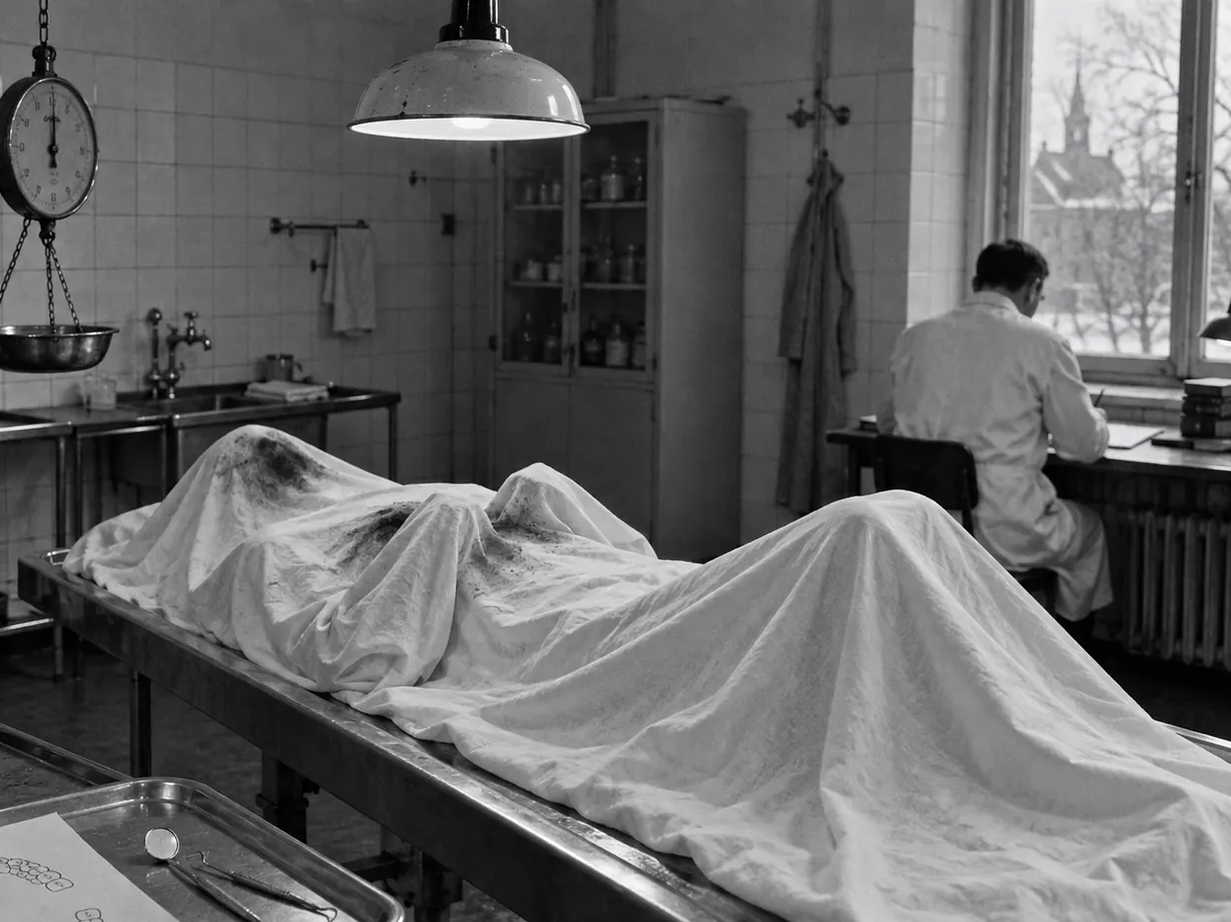
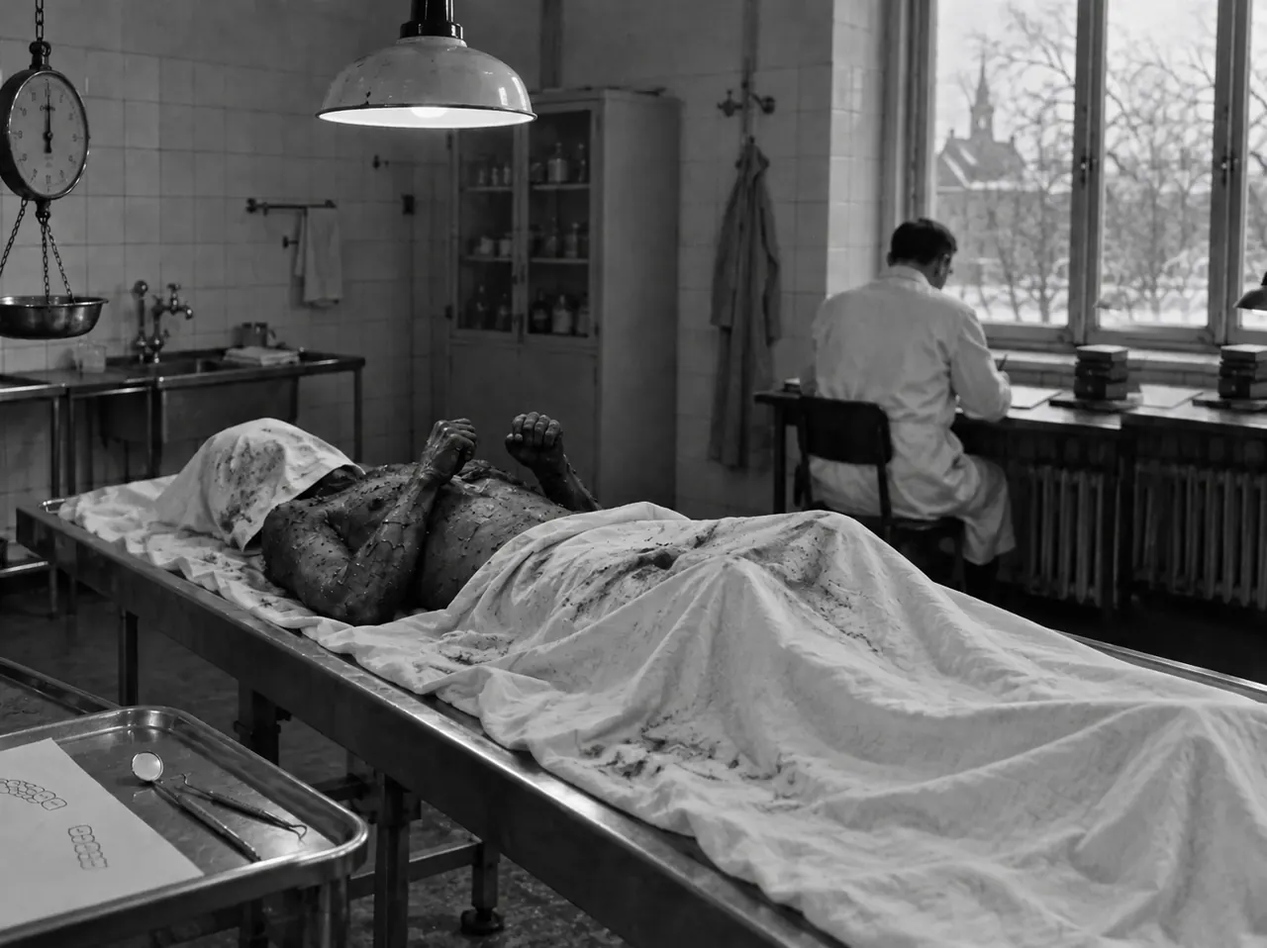
CASE 06's two body photos no longer hide the body when 잔혹 표현 is on. At the scene the tarp is folded back to the hips, and on the autopsy table the sheet is down to the waist: the burned upper body, forearms drawn up with clenched fists, face turned away or under a cloth. Captions match. With it off,
An image can now have a <key>_mild version that is used when 잔혹 표현 is off. The authoring guide explains this and goreRows.

diff --git a/img/manifest.js b/img/manifest.js
@@ -102,7 +102,8 @@ window.MG.images = {
   "c05/sketch": "img/c05/sketch.webp?v=5f76bfcb",
   "c05/truck": "img/c05/truck.webp?v=23f71f86",
   "c05/typed": "img/c05/typed.webp?v=605538ad",
-  "c06/autopsy_sheet": "img/c06/autopsy_sheet.webp?v=b2e94a47",
+  "c06/autopsy_sheet": "img/c06/autopsy_sheet.webp?v=a1b84372",
+  "c06/autopsy_sheet_mild": "img/c06/autopsy_sheet_mild.webp?v=b2e94a47",
   "c06/bags_table": "img/c06/bags_table.webp?v=8b54ca4b",
   "c06/cover": "img/c06/cover.webp?v=a744ce1c",
   "c06/cover_bg": "img/c06/cover_bg.webp?v=1d46603e",
@@ -111,7 +112,8 @@ window.MG.images = {
   "c06/harbor": "img/c06/harbor.webp?v=81ac0ac7",
   "c06/hytte": "img/c06/hytte.webp?v=d40d9a91",
   "c06/regcard": "img/c06/regcard.webp?v=7243ecc5",
-  "c06/scene_hollow": "img/c06/scene_hollow.webp?v=6c50b808",
+  "c06/scene_hollow": "img/c06/scene_hollow.webp?v=fb95a402",
+  "c06/scene_hollow_mild": "img/c06/scene_hollow_mild.webp?v=6c50b808",
   "c06/ship": "img/c06/ship.webp?v=a000a31a",
   "c06/station": "img/c06/station.webp?v=30135a93",
   "c06/stern": "img/c06/stern.webp?v=bbebb08a",
@@ -311,4 +313,4 @@ window.MG.images = {
   "_global/paper": "img/_global/paper.webp?v=da0f1de2",
   "_global/warn": "img/_global/warn.webp?v=1bc88cad"
 };
-window.MG.imageSize = {"c00/award":[1280,854],"c00/booth":[1280,960],"c00/bridge":[1280,960],"c00/cake":[1280,854],"c00/cat":[1280,960],"c00/cover":[1280,960],"c00/cover_bg":[640,480],"c00/cover_s":[260,196],"c00/cup":[1280,854],"c00/desk":[1280,960],"c00/doorbag":[1280,960],"c00/sketch":[1280,854],"c01/b_register":[1280,854],"c01/cover":[1280,960],"c01/cover_bg":[640,480],"c01/cover_s":[260,196],"c01/l_letter":[1280,960],"c01/l_postcard":[1280,854],"c01/l_slip":[1280,854],"c01/map":[1280,1170],"c01/patrollog":[1280,960],"c01/q_lamp":[1280,854],"c01/q_thread":[1280,1072],"c01/roseletter":[1280,962],"c01/s_candle":[1280,854],"c01/s_court":[1280,854],"c01/s_fundbox":[1280,854],"c01/s_patrol":[1280,854],"c01/s_sailor":[1280,854],"c01/s_tanners":[1280,854],"c02/attic":[1280,854],"c02/autopsy_table":[1280,960],"c02/barn_floor":[1280,960],"c02/calendar":[1280,1170],"c02/cover":[1280,854],"c02/cover_bg":[640,428],"c02/cover_s":[260,174],"c02/farm":[1280,854],"c02/hausbuch":[1280,854],"c02/hut":[1280,854],"c02/kasten":[1280,1170],"c02/kitchen":[1280,854],"c02/lock":[1280,1072],"c02/mailbox":[1280,854],"c02/plan":[1280,854],"c02/sk_kitchen":[1280,854],"c02/sk_stall":[1280,854],"c02/sledge":[1280,406],"c02/stall":[1280,854],"c02/suitcase":[1280,960],"c03/b_cafe":[1280,854],"c03/b_sewing":[1280,854],"c03/cover":[1280,1066],"c03/cover_bg":[640,534],"c03/cover_s":[260,216],"c03/map":[1222,1288],"c03/n_boheol":[1280,1072],"c03/n_jodk":[1280,854],"c03/n_singer":[1280,1072],"c03/p_radio":[1280,1024],"c03/p_safe":[1280,1170],"c03/p_shop":[1280,854],"c03/p_well":[1280,854],"c04/bike":[1280,854],"c04/bikephoto":[1280,800],"c04/boxes":[1280,960],"c04/coat":[1280,962],"c04/cover":[1280,854],"c04/cover_bg":[640,428],"c04/cover_s":[260,174],"c04/flare":[1280,960],"c04/kurotaki":[1280,854],"c04/l3_back":[1280,960],"c04/letter":[1280,854],"c04/map":[1280,854],"c04/matchbox":[1280,960],"c04/montage":[1030,1182],"c04/scene":[1280,720],"c04/siteboard":[1280,960],"c04/wind":[1280,960],"c05/cedar":[1280,720],"c05/cedar_car":[1280,960],"c05/cipherimg":[1280,960],"c05/cover":[1280,960],"c05/cover_bg":[640,480],"c05/cover_s":[260,196],"c05/depot":[1280,720],"c05/env_four":[1280,854],"c05/env_ref":[1280,854],"c05/env_sheriff":[1280,720],"c05/env_star":[1280,854],"c05/env_typed":[1280,854],"c05/letter1":[1280,854],"c05/lighthouse":[1280,720],"c05/masonhill":[1280,720],"c05/mh_car":[1280,960],"c05/payphone":[1086,1448],"c05/sketch":[1086,1448],"c05/truck":[1280,720],"c05/typed":[1280,960],"c06/autopsy_sheet":[1244,932],"c06/bags_table":[1280,854],"c06/cover":[1280,854],"c06/cover_bg":[640,428],"c06/cover_s":[260,174],"c06/fuel":[1280,854],"c06/harbor":[1280,854],"c06/hytte":[1280,854],"c06/regcard":[1280,960],"c06/scene_hollow":[1280,960],"c06/ship":[1280,854],"c06/station":[1280,854],"c06/stern":[1280,854],"c06/suitcases":[1280,960],"c06/thermos":[1280,854],"c06/touristmap":[1280,960],"c06/valley":[1280,960],"c07/cover":[1280,854],"c07/cover_bg":[640,428],"c07/cover_s":[260,174],"c07/handbag":[1280,960],"c07/house":[1280,960],"c07/ledger_page":[1280,960],"c07/news_car":[1280,854],"c07/photo_car":[1280,854],"c07/photo_seat":[1280,854],"c07/scene_map":[1280,854],"c07/seokcar":[1280,854],"c07/shop":[1280,854],"c07/songwol_gate":[1280,854],"c07/switchboard":[1280,960],"c07/tv":[1254,1254],"c08/booth":[1280,854],"c08/church":[1086,1448],"c08/cover":[1280,854],"c08/cover_bg":[640,428],"c08/cover_s":[260,174],"c08/flyer":[1280,854],"c08/keys":[1280,960],"c08/map":[1280,854],"c08/montage":[1086,1448],"c08/montage_print":[1086,1448],"c08/news_site":[1280,960],"c08/note_paper":[1280,854],"c08/rail":[1280,854],"c08/ransom_bag":[1280,854],"c08/sg_call":[1200,576],"c08/sg_han":[1200,576],"c08/sg_jang":[1200,576],"c08/sg_tak":[1200,576],"c08/sg_yeom":[1200,576],"c08/shop_ledger":[1280,960],"c08/solmaru":[1280,960],"c08/warehouse":[1280,960],"c09/busstop":[1280,854],"c09/cctv":[1280,854],"c09/courier_room":[1280,854],"c09/cover":[1280,960],"c09/cover_bg":[640,480],"c09/cover_s":[260,196],"c09/door":[1280,960],"c09/frames":[1280,960],"c09/haeun_photo":[1280,854],"c09/house204":[1280,960],"c09/house217":[1280,960],"c09/house219":[1280,854],"c09/house226":[1280,854],"c09/house230":[1280,960],"c09/map":[1280,854],"c09/mt_photo":[1280,854],"c09/ph217":[1280,960],"c09/ph219":[1280,960],"c09/pyogu":[1280,960],"c09/roof":[1280,854],"c09/sora_photo":[1280,960],"c10/cam_a":[1280,854],"c10/cam_b":[1280,854],"c10/cam_pier":[1280,960],"c10/cam_store":[1280,960],"c10/cam_taxi":[1280,854],"c10/cap":[1280,960],"c10/cover":[1280,854],"c10/cover_bg":[640,428],"c10/cover_s":[260,174],"c10/crates":[1280,960],"c10/hoesik":[1280,960],"c10/pier_day":[1280,960],"c11/autopsy_room":[1280,854],"c11/bus":[1280,854],"c11/butcher_floor":[1280,854],"c11/butcher_lumi":[1280,854],"c11/cover":[1280,960],"c11/cover_bg":[640,480],"c11/cover_s":[260,196],"c11/cut_a":[1280,854],"c11/cut_b":[1280,854],"c11/cut_c":[1280,854],"c11/cut_d":[1280,854],"c11/cut_ev":[1280,854],"c11/gauge":[1280,854],"c11/items_table":[1280,854],"c11/knot_ev":[1280,960],"c11/ledger_page":[1280,854],"c11/news_bridge":[1280,854],"c11/news_divers":[1280,960],"c11/news_reeds":[1280,854],"c11/news_shop":[1280,854],"c11/news_workshop":[1280,854],"c11/nfs_nacre":[1280,960],"c11/occ_reeds":[1280,854],"c11/photo_sack":[1280,960],"c11/ph_lumi":[1280,854],"c11/ph_match":[1280,854],"c11/ph_print":[1280,854],"c11/workshop_floor":[1280,854],"c12/bagsample":[1280,854],"c12/boiler":[1280,854],"c12/butcher":[1280,854],"c12/cleancart":[1280,1024],"c12/cover":[1280,854],"c12/cover_bg":[640,428],"c12/cover_s":[260,174],"c12/dengon":[1280,854],"c12/jiage":[1280,960],"c12/knot_bag":[1280,960],"c12/luminol":[1280,854],"c12/n_park":[1280,854],"c12/pinkphone":[1024,1536],"c12/room":[1280,1072],"c12/saw_cast":[1280,960],"c12/scene_bin":[1280,854],"c12/sento":[1024,1536],"c12/sk_east":[1280,854],"c12/sk_lum":[1280,854],"c12/sk_sento":[1280,854],"c12/store":[1280,854],"c12/trap":[1280,854],"c12/videocard":[1280,854],"c12/wp":[1280,854],"c13/alley_day":[1280,960],"c13/bread":[1280,960],"c13/cctv_drop":[1280,720],"c13/cctv_pick":[1280,720],"c13/counter":[1280,854],"c13/cover":[1280,960],"c13/cover_bg":[640,480],"c13/cover_s":[260,196],"c13/door":[1280,960],"c13/drop":[1280,960],"c13/kick":[1280,960],"c13/locker":[1280,960],"c13/room":[1280,854],"c13/store":[1280,960],"c13/tablet":[1280,960],"c14/atm":[1280,960],"c14/bankbook":[1280,960],"c14/calendar":[1280,960],"c14/cover":[1280,960],"c14/cover_bg":[640,480],"c14/cover_s":[260,196],"c14/fakedoc":[1280,960],"c14/lock":[1280,960],"c14/market":[1280,960],"c14/oksun":[1280,960],"c14/park":[1280,720],"c14/scooter":[1280,960],"c14/sk_door":[1280,854],"c14/sk_locker":[1280,854],"c14/stakeout":[1280,720],"c15/carlot":[1280,854],"c15/carwash":[1280,720],"c15/cctv_lane":[1280,960],"c15/cover":[1280,960],"c15/cover_bg":[640,480],"c15/cover_s":[260,196],"c15/elev_cam":[1280,960],"c15/futsal":[1280,960],"c15/helmet_cam":[1280,720],"c15/libnote":[1280,960],"c15/note_photo":[1280,960],"c15/plate_photo":[1280,960],"c15/shoes":[1280,960],"c15/tracker_photo":[1280,960],"c15/watch_found":[1280,960],"_desk/ashtray":[600,594],"_desk/cassette":[600,400],"_desk/clips":[600,616],"_desk/energy":[600,600],"_desk/evidencebag":[600,900],"_desk/flipphone":[600,970],"_desk/glasses":[600,208],"_desk/inkpen":[600,588],"_desk/lanyard":[600,600],"_desk/magnifier":[600,602],"_desk/matchbox":[600,552],"_desk/mug":[600,488],"_desk/pager":[600,560],"_desk/pencil":[600,70],"_desk/pocketwatch":[600,588],"_desk/radio":[600,900],"_desk/smartphone":[600,1096],"_desk/stamp":[600,548],"_desk/takeaway":[600,706],"_desk/teacup":[600,602],"_global/desk":[1024,1024],"_global/hero":[1672,942],"_global/paper":[1024,1024],"_global/warn":[600,200]};
+window.MG.imageSize = {"c00/award":[1280,854],"c00/booth":[1280,960],"c00/bridge":[1280,960],"c00/cake":[1280,854],"c00/cat":[1280,960],"c00/cover":[1280,960],"c00/cover_bg":[640,480],"c00/cover_s":[260,196],"c00/cup":[1280,854],"c00/desk":[1280,960],"c00/doorbag":[1280,960],"c00/sketch":[1280,854],"c01/b_register":[1280,854],"c01/cover":[1280,960],"c01/cover_bg":[640,480],"c01/cover_s":[260,196],"c01/l_letter":[1280,960],"c01/l_postcard":[1280,854],"c01/l_slip":[1280,854],"c01/map":[1280,1170],"c01/patrollog":[1280,960],"c01/q_lamp":[1280,854],"c01/q_thread":[1280,1072],"c01/roseletter":[1280,962],"c01/s_candle":[1280,854],"c01/s_court":[1280,854],"c01/s_fundbox":[1280,854],"c01/s_patrol":[1280,854],"c01/s_sailor":[1280,854],"c01/s_tanners":[1280,854],"c02/attic":[1280,854],"c02/autopsy_table":[1280,960],"c02/barn_floor":[1280,960],"c02/calendar":[1280,1170],"c02/cover":[1280,854],"c02/cover_bg":[640,428],"c02/cover_s":[260,174],"c02/farm":[1280,854],"c02/hausbuch":[1280,854],"c02/hut":[1280,854],"c02/kasten":[1280,1170],"c02/kitchen":[1280,854],"c02/lock":[1280,1072],"c02/mailbox":[1280,854],"c02/plan":[1280,854],"c02/sk_kitchen":[1280,854],"c02/sk_stall":[1280,854],"c02/sledge":[1280,406],"c02/stall":[1280,854],"c02/suitcase":[1280,960],"c03/b_cafe":[1280,854],"c03/b_sewing":[1280,854],"c03/cover":[1280,1066],"c03/cover_bg":[640,534],"c03/cover_s":[260,216],"c03/map":[1222,1288],"c03/n_boheol":[1280,1072],"c03/n_jodk":[1280,854],"c03/n_singer":[1280,1072],"c03/p_radio":[1280,1024],"c03/p_safe":[1280,1170],"c03/p_shop":[1280,854],"c03/p_well":[1280,854],"c04/bike":[1280,854],"c04/bikephoto":[1280,800],"c04/boxes":[1280,960],"c04/coat":[1280,962],"c04/cover":[1280,854],"c04/cover_bg":[640,428],"c04/cover_s":[260,174],"c04/flare":[1280,960],"c04/kurotaki":[1280,854],"c04/l3_back":[1280,960],"c04/letter":[1280,854],"c04/map":[1280,854],"c04/matchbox":[1280,960],"c04/montage":[1030,1182],"c04/scene":[1280,720],"c04/siteboard":[1280,960],"c04/wind":[1280,960],"c05/cedar":[1280,720],"c05/cedar_car":[1280,960],"c05/cipherimg":[1280,960],"c05/cover":[1280,960],"c05/cover_bg":[640,480],"c05/cover_s":[260,196],"c05/depot":[1280,720],"c05/env_four":[1280,854],"c05/env_ref":[1280,854],"c05/env_sheriff":[1280,720],"c05/env_star":[1280,854],"c05/env_typed":[1280,854],"c05/letter1":[1280,854],"c05/lighthouse":[1280,720],"c05/masonhill":[1280,720],"c05/mh_car":[1280,960],"c05/payphone":[1086,1448],"c05/sketch":[1086,1448],"c05/truck":[1280,720],"c05/typed":[1280,960],"c06/autopsy_sheet":[1280,958],"c06/autopsy_sheet_mild":[1244,932],"c06/bags_table":[1280,854],"c06/cover":[1280,854],"c06/cover_bg":[640,428],"c06/cover_s":[260,174],"c06/fuel":[1280,854],"c06/harbor":[1280,854],"c06/hytte":[1280,854],"c06/regcard":[1280,960],"c06/scene_hollow":[1280,960],"c06/scene_hollow_mild":[1280,960],"c06/ship":[1280,854],"c06/station":[1280,854],"c06/stern":[1280,854],"c06/suitcases":[1280,960],"c06/thermos":[1280,854],"c06/touristmap":[1280,960],"c06/valley":[1280,960],"c07/cover":[1280,854],"c07/cover_bg":[640,428],"c07/cover_s":[260,174],"c07/handbag":[1280,960],"c07/house":[1280,960],"c07/ledger_page":[1280,960],"c07/news_car":[1280,854],"c07/photo_car":[1280,854],"c07/photo_seat":[1280,854],"c07/scene_map":[1280,854],"c07/seokcar":[1280,854],"c07/shop":[1280,854],"c07/songwol_gate":[1280,854],"c07/switchboard":[1280,960],"c07/tv":[1254,1254],"c08/booth":[1280,854],"c08/church":[1086,1448],"c08/cover":[1280,854],"c08/cover_bg":[640,428],"c08/cover_s":[260,174],"c08/flyer":[1280,854],"c08/keys":[1280,960],"c08/map":[1280,854],"c08/montage":[1086,1448],"c08/montage_print":[1086,1448],"c08/news_site":[1280,960],"c08/note_paper":[1280,854],"c08/rail":[1280,854],"c08/ransom_bag":[1280,854],"c08/sg_call":[1200,576],"c08/sg_han":[1200,576],"c08/sg_jang":[1200,576],"c08/sg_tak":[1200,576],"c08/sg_yeom":[1200,576],"c08/shop_ledger":[1280,960],"c08/solmaru":[1280,960],"c08/warehouse":[1280,960],"c09/busstop":[1280,854],"c09/cctv":[1280,854],"c09/courier_room":[1280,854],"c09/cover":[1280,960],"c09/cover_bg":[640,480],"c09/cover_s":[260,196],"c09/door":[1280,960],"c09/frames":[1280,960],"c09/haeun_photo":[1280,854],"c09/house204":[1280,960],"c09/house217":[1280,960],"c09/house219":[1280,854],"c09/house226":[1280,854],"c09/house230":[1280,960],"c09/map":[1280,854],"c09/mt_photo":[1280,854],"c09/ph217":[1280,960],"c09/ph219":[1280,960],"c09/pyogu":[1280,960],"c09/roof":[1280,854],"c09/sora_photo":[1280,960],"c10/cam_a":[1280,854],"c10/cam_b":[1280,854],"c10/cam_pier":[1280,960],"c10/cam_store":[1280,960],"c10/cam_taxi":[1280,854],"c10/cap":[1280,960],"c10/cover":[1280,854],"c10/cover_bg":[640,428],"c10/cover_s":[260,174],"c10/crates":[1280,960],"c10/hoesik":[1280,960],"c10/pier_day":[1280,960],"c11/autopsy_room":[1280,854],"c11/bus":[1280,854],"c11/butcher_floor":[1280,854],"c11/butcher_lumi":[1280,854],"c11/cover":[1280,960],"c11/cover_bg":[640,480],"c11/cover_s":[260,196],"c11/cut_a":[1280,854],"c11/cut_b":[1280,854],"c11/cut_c":[1280,854],"c11/cut_d":[1280,854],"c11/cut_ev":[1280,854],"c11/gauge":[1280,854],"c11/items_table":[1280,854],"c11/knot_ev":[1280,960],"c11/ledger_page":[1280,854],"c11/news_bridge":[1280,854],"c11/news_divers":[1280,960],"c11/news_reeds":[1280,854],"c11/news_shop":[1280,854],"c11/news_workshop":[1280,854],"c11/nfs_nacre":[1280,960],"c11/occ_reeds":[1280,854],"c11/photo_sack":[1280,960],"c11/ph_lumi":[1280,854],"c11/ph_match":[1280,854],"c11/ph_print":[1280,854],"c11/workshop_floor":[1280,854],"c12/bagsample":[1280,854],"c12/boiler":[1280,854],"c12/butcher":[1280,854],"c12/cleancart":[1280,1024],"c12/cover":[1280,854],"c12/cover_bg":[640,428],"c12/cover_s":[260,174],"c12/dengon":[1280,854],"c12/jiage":[1280,960],"c12/knot_bag":[1280,960],"c12/luminol":[1280,854],"c12/n_park":[1280,854],"c12/pinkphone":[1024,1536],"c12/room":[1280,1072],"c12/saw_cast":[1280,960],"c12/scene_bin":[1280,854],"c12/sento":[1024,1536],"c12/sk_east":[1280,854],"c12/sk_lum":[1280,854],"c12/sk_sento":[1280,854],"c12/store":[1280,854],"c12/trap":[1280,854],"c12/videocard":[1280,854],"c12/wp":[1280,854],"c13/alley_day":[1280,960],"c13/bread":[1280,960],"c13/cctv_drop":[1280,720],"c13/cctv_pick":[1280,720],"c13/counter":[1280,854],"c13/cover":[1280,960],"c13/cover_bg":[640,480],"c13/cover_s":[260,196],"c13/door":[1280,960],"c13/drop":[1280,960],"c13/kick":[1280,960],"c13/locker":[1280,960],"c13/room":[1280,854],"c13/store":[1280,960],"c13/tablet":[1280,960],"c14/atm":[1280,960],"c14/bankbook":[1280,960],"c14/calendar":[1280,960],"c14/cover":[1280,960],"c14/cover_bg":[640,480],"c14/cover_s":[260,196],"c14/fakedoc":[1280,960],"c14/lock":[1280,960],"c14/market":[1280,960],"c14/oksun":[1280,960],"c14/park":[1280,720],"c14/scooter":[1280,960],"c14/sk_door":[1280,854],"c14/sk_locker":[1280,854],"c14/stakeout":[1280,720],"c15/carlot":[1280,854],"c15/carwash":[1280,720],"c15/cctv_lane":[1280,960],"c15/cover":[1280,960],"c15/cover_bg":[640,480],"c15/cover_s":[260,196],"c15/elev_cam":[1280,960],"c15/futsal":[1280,960],"c15/helmet_cam":[1280,720],"c15/libnote":[1280,960],"c15/note_photo":[1280,960],"c15/plate_photo":[1280,960],"c15/shoes":[1280,960],"c15/tracker_photo":[1280,960],"c15/watch_found":[1280,960],"_desk/ashtray":[600,594],"_desk/cassette":[600,400],"_desk/clips":[600,616],"_desk/energy":[600,600],"_desk/evidencebag":[600,900],"_desk/flipphone":[600,970],"_desk/glasses":[600,208],"_desk/inkpen":[600,588],"_desk/lanyard":[600,600],"_desk/magnifier":[600,602],"_desk/matchbox":[600,552],"_desk/mug":[600,488],"_desk/pager":[600,560],"_desk/pencil":[600,70],"_desk/pocketwatch":[600,588],"_desk/radio":[600,900],"_desk/smartphone":[600,1096],"_desk/stamp":[600,548],"_desk/takeaway":[600,706],"_desk/teacup":[600,602],"_global/desk":[1024,1024],"_global/hero":[1672,942],"_global/paper":[1024,1024],"_global/warn":[600,200]};

diff --git a/cases/c06-norway-1970.js b/cases/c06-norway-1970.js
@@ -204,7 +204,7 @@
     docs: {
       /* ── 헬레순 경찰 수사철 ── */
       d_report: { src: 'politi', blood: true, title: '변사체 발견 보고', kicker: 'HELLESUND POLITIKAMMER · RAPPORT', meta: '1969년 10월 19일(일) 밤 · 강력반 당직', body: [
-        { img: 'scene_hollow', cap: '현장 사진 3호 (10월 19일 16:40 · 감식반). 방수포를 덮은 채 찍었다. 번호표는 현장 유류품 목록의 번호.' },
+        { img: 'scene_hollow', cap: '현장 사진 3호 (10월 19일 16:40 · 감식반). 방수포를 덮은 채 찍었다. 번호표는 현장 유류품 목록의 번호.', gore: '현장 사진 3호 (10월 19일 16:40 · 감식반). 방수포를 허리께까지 걷고 찍었다. 두 팔은 열에 오그라든 채 주먹을 쥐고 가슴 앞에 들려 있다. 번호표는 현장 유류품 목록의 번호.' },
         '10월 19일 일요일 오후 2시 20분, 대학생 [[카리 바트네]](22)와 [[잉리드 몰란]](22)이 [[크비트달 산장|k_hytte]]에서 내려오다 등산로에서 60미터쯤 떨어진 바위 비탈 아래에서 여성 한 명이 숨져 있는 것을 발견, 3시 5분 들머리 농가 전화로 신고함.',
         '여성은 30대로 보이며, 몸 앞쪽과 곁에 둔 소지품 일부가 불에 탄 상태였음. 둘레의 히스 덤불에 불이 옮은 자국이 있으나 크게 번지지는 않았음.',
         { p: '시신은 바위 비탈 밑 오목한 자리에 반듯이 누운 채였음. 두 팔은 팔꿈치에서 굽어 가슴 앞으로 들려 있고, 두 손은 주먹을 쥔 모양. 무릎도 조금 굽음.', gore: '시신은 바위 비탈 밑 오목한 자리에 반듯이 누운 채였음. 두 팔은 팔꿈치에서 굽어 가슴 앞으로 들려 있고, 두 손은 주먹을 쥔 모양. 주먹 쥔 손가락은 숯처럼 검게 오그라들어 서로 눌어붙어 있었음. 무릎도 조금 굽음. 들린 두 팔 안쪽에 밤새 빗물이 고였다가 그을음을 녹여, 검은 물줄기가 가슴을 타고 흘러내린 자국이 남아 있음.' },
@@ -218,7 +218,7 @@
         { stamp: 'Hellesund Politikammer' },
       ] },
       d_autopsy: { src: 'politi', blood: 'heavy', title: '부검 소견서', kicker: 'HELLESUND SYKEHUS · PATOLOGISK AVDELING', meta: '1969년 10월 21일 · 병리과장 Dr. 라우릿센 · 입회 할보르센 경감', body: [
-        { img: 'autopsy_sheet', cap: '시립병원 병리과 부검실. 팔은 열에 오그라든 그대로 굳어, 덮은 천이 가슴 위로 들려 있다.', gore: '시립병원 병리과 부검실. 팔은 열에 오그라든 그대로 굳어, 덮은 천이 가슴 위로 들려 있다. 천 밑에서 그을음과 누런 진물이 배어 나와 가슴과 얼굴 자리가 얼룩졌다.' },
+        { img: 'autopsy_sheet', cap: '시립병원 병리과 부검실. 팔은 열에 오그라든 그대로 굳어, 덮은 천이 가슴 위로 들려 있다.', gore: '시립병원 병리과 부검실. 천을 허리까지 내렸다. 팔은 열에 오그라든 그대로 굳어 가슴 앞에 들려 있고, 쥔 주먹은 펴지지 않는다. 얼굴에 덮은 작은 천에 그을음과 누런 진물이 배어 나왔다.' },
         '사인: 수면제 중독에 불길의 일산화탄소 중독이 겹침. 불이 붙었을 때 아직 숨을 쉬고 있었음.',
         { p: '혈액과 위 내용물에서 [[수면제]](바르비투르산계) 성분이 많이 나옴. 위에서 커피가 조금 나옴.', f: 'f_pills' },
         { p: '사망 추정: [[10월 18일]](토) 낮부터 저녁 사이.', f: 'f_tod' },
@@ -607,16 +607,16 @@
       thermos: { use: '현장 유류품 1호 — 히스 덤불 속 보온병 뚜껑 컵', ratio: '4:3',
         svg: '<svg viewBox="0 0 200 150"><rect width="200" height="150" fill="#6e5a4e"/><g fill="#8a5f6e"><circle cx="30" cy="40" r="18"/><circle cx="170" cy="30" r="22"/><circle cx="60" cy="130" r="24"/><circle cx="160" cy="125" r="20"/></g><path d="M78 70h44l-6 44H84z" fill="#b8b9b4"/><ellipse cx="100" cy="70" rx="22" ry="6" fill="#d9dad5"/><ellipse cx="100" cy="72" rx="16" ry="3" fill="#4a3526"/></svg>',
         prompt: 'Police close-up photograph of the screw-on cup lid of a 1960s vacuum flask lying in wet purple heather on a rocky Norwegian hillside, a dark coffee stain inside the cup, a blank evidence number card beside it. Overcast light, 35mm black-and-white film.' },
-      scene_hollow: { use: '현장 사진 3호 — 바위 비탈 밑 불탄 자리 (방수포로 덮은 시신)', ratio: '4:3', sensitive: true,
+      scene_hollow: { use: '현장 사진 3호 — 바위 비탈 밑 불탄 자리 (방수포를 허리까지 걷은 시신). 잔혹 표현을 끄면 끝까지 덮은 판(scene_hollow_mild)', ratio: '4:3', sensitive: true,
         svg: '<svg viewBox="0 0 200 150"><rect width="200" height="150" fill="#6f716b"/><path d="M0 0h200v70q-40 10-80 4T0 80z" fill="#55575a"/><path d="M92 76q-6-32 6-62q8 22 4 62z" fill="#1f1e1c" opacity=".7"/><ellipse cx="100" cy="106" rx="84" ry="32" fill="none" stroke="#5c4a36" stroke-width="7" opacity=".55"/><ellipse cx="100" cy="106" rx="72" ry="26" fill="#2a2724"/><path d="M58 110q4-18 20-16q6-16 20-12q16-10 30 4q16 4 18 24z" fill="#8c8e88"/><path d="M84 98q6-14 14-6M108 94q8-12 14-2" stroke="#6b6d68" stroke-width="3" fill="none"/><path d="M34 94l14 10M38 106l12-6" stroke="#111" stroke-width="1.5"/><ellipse cx="160" cy="106" rx="6" ry="4" fill="#3a3530"/><ellipse cx="170" cy="110" rx="5" ry="3.5" fill="#3a3530"/><g fill="#efece4"><rect x="40" y="110" width="9" height="6"/><rect x="152" y="116" width="9" height="6"/><rect x="118" y="70" width="9" height="6"/></g></svg>',
-        prompt: 'Black-and-white 1969 Norwegian police scene photograph on 35mm Tri-X, overcast afternoon after rain, wet rock: the foot of a steep grey boulder slope where a shallow hollow in the heather has burned. A ring about two metres across of heather burned down to black ash and stubble, singed brown tips beyond it, and on the rock face above a tongue of black soot rising to head height. In the middle of the ring a human form lies on its back under a grey canvas tarp, only its outline showing: the arms bent at the elbows and raised in front of the chest so the tarp tents up over them, the knees slightly bent. Around it, each with a small blank white numbered card: the black wire skeleton of a burnt folding umbrella by the right shoulder, two small opaque 1960s polyethylene bottles (squat, white and brown, like household cleaner flasks, not clear water bottles) melted into shapeless blackened lumps, lying on the ash about half a metre beyond the foot end of the tarp and clearly separate from it, a charred matchbox wedged in a rock crack above the head. The muddy rubber boots of a policeman at the frame edge, raindrops beading on the tarp, heavy grain.',
-        must: '지름 2m쯤 까맣게 탄 히스 고리 · 바위 벽을 사람 키만큼 타고 오른 그을음 · 방수포 아래로 가슴 앞에 들린 두 팔의 윤곽 · 번호표가 붙은 우산 뼈대(어깨 곁)·녹은 병 둘(발치)·성냥갑(머리 위 바위틈)',
-        avoid: '방수포는 끝까지 덮인 채로. 탄 피부·살·상처·얼굴은 보이지 않게.' },
-      autopsy_sheet: { use: '시립병원 병리과 부검실 — 흰 천 아래 오그라든 형체', ratio: '4:3', sensitive: true,
+        prompt: 'Black-and-white 1969 Norwegian police scene photograph on 35mm Tri-X, overcast afternoon after rain, wet rock: the foot of a steep grey boulder slope where a shallow hollow in the heather has burned. A ring about two metres across of heather burned down to black ash and stubble, singed brown tips beyond it, and on the rock face above a tongue of black soot rising to head height. In the middle of the ring a human form lies on its back, the grey canvas tarp folded back from the head end to about the hips: the exposed upper body burned black like charcoal, clothing burned to curled ash flakes, the surface cracked like burnt bark, both forearms raised stiffly in front of the chest with blackened clenched fists (the heat "boxer" pose), the head turned away toward the rock and crusted with ash so no face shows. Around it, each with a small blank white numbered card: the black wire skeleton of a burnt folding umbrella by the right shoulder, two small opaque 1960s polyethylene bottles (squat, white and brown, like household cleaner flasks, not clear water bottles) melted into shapeless blackened lumps, lying on the ash about half a metre beyond the foot end of the tarp and clearly separate from it, a charred matchbox wedged in a rock crack above the head. The muddy rubber boots of a policeman at the frame edge, raindrops beading on the tarp, heavy grain.',
+        must: '지름 2m쯤 까맣게 탄 히스 고리 · 바위 벽을 사람 키만큼 타고 오른 그을음 · 허리까지 걷은 방수포 · 까맣게 탄 윗몸과 가슴 앞에 들린 두 팔·쥔 주먹 (얼굴은 안 보임) · 번호표가 붙은 우산 뼈대(어깨 곁)·녹은 병 둘(발치)·성냥갑(머리 위 바위틈)',
+        avoid: '얼굴은 보이지 않게 (돌려 있거나 재에 덮이게). 알몸·성적인 것 없이. 흑백만.' },
+      autopsy_sheet: { use: '시립병원 병리과 부검실 — 천을 허리까지 내린 탄 시신. 잔혹 표현을 끄면 끝까지 덮은 판(autopsy_sheet_mild)', ratio: '4:3', sensitive: true,
         svg: '<svg viewBox="0 0 200 150"><rect width="200" height="150" fill="#6a6d6b"/><path d="M0 20H200M0 40H200M0 60H200M0 80H200M40 0V84M80 0V84M120 0V84M160 0V84" stroke="#7c7f7d"/><path d="M100 0v16" stroke="#222"/><path d="M86 16h28l-5 9h-18z" fill="#2b2b2a"/><rect x="24" y="92" width="152" height="9" fill="#9ea3a2"/><rect x="34" y="101" width="6" height="38" fill="#777"/><rect x="160" y="101" width="6" height="38" fill="#777"/><path d="M34 92q8-10 22-8l8-28q10-6 18 2l6 26q10-4 18-2l6-22q10-6 16 2l2 28q16-2 30 2z" fill="#e9ebe3"/><ellipse cx="60" cy="86" rx="10" ry="4" fill="#5a5854" opacity=".45"/><ellipse cx="88" cy="80" rx="12" ry="5" fill="#5a5854" opacity=".4"/><rect x="176" y="62" width="16" height="30" fill="#3b3a36"/></svg>',
-        prompt: 'Black-and-white 1969 photograph of a small Norwegian hospital pathology room: white tiled walls, a single enamel lamp hanging low over a steel autopsy table. On the table a body lies completely covered by a white sheet, and the shape under the sheet is wrong: the cloth is lifted over forearms bent at the elbows and raised in front of the chest with the hands clenched, and over knees slightly drawn up. Grey-black soot smudges have come through the cloth over the chest and where the face would be. On a side tray a blank dental chart form showing only printed tooth outlines, a dental mirror and probe; a hanging scale and a folded stack of clean towels (no specimen jars, no organs anywhere in the room); a pathologist in a white coat seen from behind writing at a desk by a tall window. Cold daylight, grain.',
-        must: '천이 가슴 앞으로 들린 두 팔과 조금 굽은 무릎 위로 솟아 있다 · 가슴과 얼굴 자리에 배어 나온 그을음 · 옆 쟁반의 치과 차트(치아 그림만)와 치경',
-        avoid: '천은 끝까지 덮인 채로. 탄 피부·살·상처·얼굴은 보이지 않게. 차트에 읽히는 글자 없이.' },
+        prompt: 'Black-and-white 1969 photograph of a small Norwegian hospital pathology room: white tiled walls, a single enamel lamp hanging low over a steel autopsy table. On the table a body lies with the white sheet drawn down to the waist: the upper body charred black and cracked, the forearms rigidly raised in front of the chest and bent at the elbows with blackened clenched fists. A small folded white cloth lies over the face and head, grey with soot seeping through, so no face shows. Soot and ash have come off onto the sheet around the body. On a side tray a blank dental chart form showing only printed tooth outlines, a dental mirror and probe; a hanging scale and a folded stack of clean towels (no specimen jars, no organs anywhere in the room); a pathologist in a white coat seen from behind writing at a desk by a tall window. Cold daylight, grain.',
+        must: '허리까지 내린 천 · 까맣게 탄 윗몸과 가슴 앞에 들린 두 팔·쥔 주먹 · 얼굴을 덮은 작은 천에 밴 그을음 · 옆 쟁반의 치과 차트(치아 그림만)와 치경',
+        avoid: '얼굴은 작은 천으로 덮어 보이지 않게. 알몸·성적인 것 없이. 차트에 읽히는 글자 없이.' },
       suitcases: { use: '역 보관소 가방 두 개의 내용물', ratio: '4:3',
         svg: '<svg viewBox="0 0 200 150"><rect width="200" height="150" fill="#b9b2a2"/><rect x="24" y="60" width="86" height="60" rx="4" fill="#6b4a2c"/><rect x="56" y="52" width="20" height="10" rx="3" fill="none" stroke="#3a2818" stroke-width="3"/><rect x="104" y="72" width="76" height="50" rx="4" fill="#3f4b52"/><rect x="132" y="64" width="18" height="10" rx="3" fill="none" stroke="#20282c" stroke-width="3"/><rect x="160" y="84" width="14" height="20" fill="#e8dfc6"/></svg>',
         prompt: 'Two 1960s suitcases opened on a police table with their contents laid out for documentation: three wigs of different hair colours, plain-glass spectacles, neatly folded clothes with the labels cut out, small binoculars, a compact camera and a slim notebook. Flat fluorescent light, faded 35mm colour film.' },

diff --git a/js/engine.js b/js/engine.js
@@ -244,9 +244,11 @@
   function art(key, cls, svgOnly) {
     const a = C.art[key];
     if (a == null) return '';
-    const file = svgOnly && !(a && a.raster) ? null : MG.images[`${C.id}/${key}`];
+    // 잔혹 표현을 끈 사람에게는 <키>_mild 그림(천을 덮은 판)이 있으면 그걸 보인다
+    const ik = ST && S.mild && a && a.sensitive && MG.images[`${C.id}/${key}_mild`] ? `${C.id}/${key}_mild` : `${C.id}/${key}`;
+    const file = svgOnly && !(a && a.raster) ? null : MG.images[ik];
     const alt = (a && a.alt) || (a && a.use) || '';
-    const sz = file && (MG.imageSize || {})[`${C.id}/${key}`]; // 그림이 오기 전에 제 비율만큼 자리를 잡아 둔다 (늦게 뜬 그림이 글·표시점을 밀어내지 않게)
+    const sz = file && (MG.imageSize || {})[ik]; // 그림이 오기 전에 제 비율만큼 자리를 잡아 둔다 (늦게 뜬 그림이 글·표시점을 밀어내지 않게)
     const img = file ? `<img class="${cls || 'art'}" src="${esc(file)}" alt="${esc(alt)}" loading="lazy" decoding="async"${sz ? ` style="aspect-ratio:auto ${+sz[0]}/${+sz[1]}"` : ''}>` : '';
     // 글자 없는 그림(지도·약도)에는 이름표를 게임이 얹는다: [글자, x%, y%(글자 밑줄), 'l'|'c'|'r']
     const labs = file && a && a.labels ? `<span class="art-labs" aria-hidden="true">${a.labels.map(([t, x, y, al]) => `<span class="art-lab${al === 'c' ? ' c' : al === 'r' ? ' r' : ''}" style="left:${+x}%;top:${+y}%">${esc(t)}</span>`).join('')}</span>` : '';

diff --git a/docs/CASE_AUTHORING.md b/docs/CASE_AUTHORING.md
@@ -170,7 +170,7 @@ p_abberline: {
   - 줄이 `— ` 로 시작하면 **형사가 끼어든 말**(오른쪽 말풍선): `'— 토요일 아침 여덟 시 반에요?'`
   - 몸짓만 있는 줄(`'(대답하지 않는다)'`)은 침묵으로 보인다.
 - 번복 대답(`need` 가 있는 것)은 추궁 장면이 된다: 북소리 → 형사의 추궁 한마디 → 조건에 걸린 **수첩 메모를 내미는 장면** → 침묵 → 대답. 이 대답에만 목소리가 붙는다 (`tools/voices.js` 의 `CAST` 에 그 사람 목소리를 정해 두면, 첫 말풍선은 그 사람 목소리, `— ` 줄은 주인공 목소리, 그 뒤 대꾸는 다시 그 사람 목소리).
-- 빨간 별 사건의 글 한 토막은 `{ p: '…', gore: '…' }` 로 잔혹판을 따로 둘 수 있다 (p·note·say·cap·msg 자리에 들어간다). 잔혹 표현을 켜면 gore, 끄면 원래 글. 사실·단어·숫자는 두 판이 같아야 한다. 목소리가 붙는 번복 대답에는 두지 않는다. 끔찍한 기록을 처음 펼치면 `sfx/gore` 가 나고, 문서에 `sting: 'bonesaw'` 처럼 다른 소리를 정할 수 있다.
+- 빨간 별 사건의 글 한 토막은 `{ p: '…', gore: '…' }` 로 잔혹판을 따로 둘 수 있다 (p·note·say·cap·msg 자리에 들어간다). 잔혹 표현을 켜면 gore, 끄면 원래 글. 사실·단어·숫자는 두 판이 같아야 한다. 목소리가 붙는 번복 대답에는 두지 않는다. 끔찍한 기록을 처음 펼치면 `sfx/gore` 가 나고, 문서에 `sting: 'bonesaw'` 처럼 다른 소리를 정할 수 있다. 표는 `goreRows` 로 잔혹판 행을 둔다 — 행 수·순서·첫 칸·[[링크]]·숫자는 원래 `rows` 와 같게.
 - 거짓말한 적 없는 사람(피해자·유족·목격자)에게 메모를 보여 기억을 되살리는 대답은 `k_x: { soft: true, need: […], a, else }`. 「추궁」 도장과 「그래도 같은 말씀입니까?」 대신 「확인」 도장과 「천천히 보셔도 됩니다. 이거, 기억나십니까?」가 나온다.
 - 새 인물을 넣으면 `tools/voices.js` 의 `CAST` 에 `'사건/인물': [말소리 높이 Hz]` 한 줄을 더한다 (목소리를 붙일 사람은 `[높이, 목소리, 빠르기, 안정도]`). 빠지면 기본 높이로 찍힌다.
 
@@ -231,7 +231,7 @@ art: {
 - 보통 사건은 폭력을 화면 밖에 둔다. 기록은 건조하게("숨진 채 발견", "머리에 둔기에 의한 상처"). 시신은 **가리거나 암시**해서 공포감만 만든다 (덮인 시트, 그림자, 현장 테이프, 빈 신발 한 짝).
 - **잔혹한 사건**(토막 살인, 시신 훼손 등)은 `graphic: true` 로 표시하고 `warn` 에 무엇이 들어 있는지 적는다. 현장의 잔혹함이 **느껴지게** 쓴다 — 다만 말투는 검안서·감식 기록·신문 기사의 것으로: 어떤 부위가 어디서 어떤 상태로 발견됐는지, 절단면이 무엇을 말하는지(도구, 솜씨, 시각), 혈흔 형태 분석(비산흔·낙하흔·닦아낸 흔적·전이흔), 루미놀 반응. 고통을 늘어놓거나 즐기듯 쓰지 않는다.
   - 화면: 엔진이 책상 가장자리와 일부 문서에 **마른 핏자국**을 얹는다. 문서마다 `blood: 'heavy'`(감식 사진철·현장 검증 조서처럼 핏자국이 많은 기록) / `blood: true`(한두 점) / `blood: false`(깨끗한 신문 스크랩 등)로 조절한다. 플레이어는 「잔혹 표현」 단추로 끌 수 있다.
-  - 그림: 빨간 별 값을 하도록 **범행 흔적은 진하게** — 벽의 비산흔, 바닥의 낙하흔, 호 모양으로 닦아 낸 자국, 줄눈·배수구에 스민 피, 피가 밴 포대·봉투, 루미놀 암실 사진. 시신은 **가려진 채 일부까지** — 방수포·포대 밖으로 나온 손이나 아래팔, 비닐 너머 비치는 팔다리 윤곽, 매듭에 걸린 머리카락, 천 아래 여러 덩어리로 놓인 형체. 절단면·내부 장기·상처·죽은 사람의 얼굴은 넣지 않는다 (생성 AI 도 거절하고, 실제 사건 모티프의 피해자를 떠올리게 한다). 무서움은 보여 주는 양보다 **본문과 맞아떨어지는 구체성**에서 나온다 — 캡션이 「비산흔 수십 점」이면 그림에도 수십 점. 이런 그림의 art 에는 `sensitive: true` 를 붙인다 → 게임에서 흐리게 가려진 채 「열람 주의 · 눌러서 보기」로 나온다.
+  - 그림: 빨간 별 값을 하도록 **범행 흔적은 진하게** — 벽의 비산흔, 바닥의 낙하흔, 호 모양으로 닦아 낸 자국, 줄눈·배수구에 스민 피, 피가 밴 포대·봉투, 루미놀 암실 사진. 시신은 **가려진 채 일부까지** — 방수포·포대 밖으로 나온 손이나 아래팔, 비닐 너머 비치는 팔다리 윤곽, 매듭에 걸린 머리카락, 천 아래 여러 덩어리로 놓인 형체. 절단면·내부 장기·상처·죽은 사람의 얼굴은 넣지 않는다 (생성 AI 도 거절하고, 실제 사건 모티프의 피해자를 떠올리게 한다). 무서움은 보여 주는 양보다 **본문과 맞아떨어지는 구체성**에서 나온다 — 캡션이 「비산흔 수십 점」이면 그림에도 수십 점. 이런 그림의 art 에는 `sensitive: true` 를 붙인다 → 잔혹 표현을 켜면 바로 보이고, 끄면 흐리게 가려진 채 「열람 주의」로 나온다. 시신을 더 드러낸 그림(예: c06 의 방수포를 걷은 탄 시신)은 천을 끝까지 덮은 판을 `img/<사건>/<키>_mild.webp` 로 함께 두면, 잔혹 표현을 끈 사람에게는 그 판이 나간다. 이때 캡션도 `gore` 로 두 판을 나눈다.
   - SVG 현장 스케치에도 마른 핏자국(#5a130c~#7a1c12, 불규칙한 얼룩·낙하흔·끌린 자국)을 그려도 된다.
 - 성범죄는 어떤 사건에서도 쓰지 않는다. 아이를 피해자로 만들지 않는다. (graphic 사건도 같다.)
 - 외국 사건의 문서는 **한국어 번역본**으로 쓰되, 제호·도장·서명 같은 곳에 원어를 살짝 남기면 분위기가 산다 (예: 제호 `The East End Star`, 독일 도장 `Gendarmerie`). 시대 말투를 살린다 (1930년대 신문체, 1970년대 수사 서류체, 2006년 미니홈피 말투).
